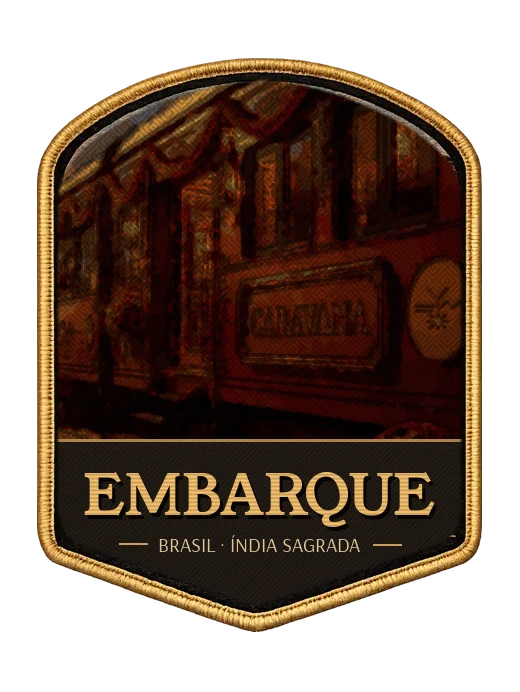
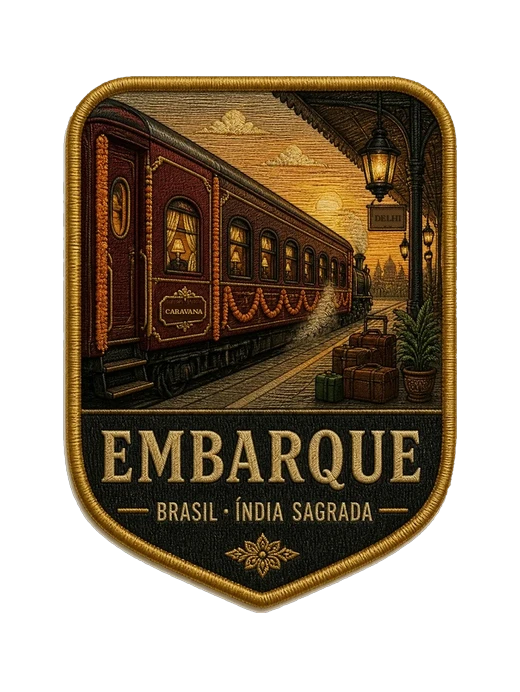
Carimbo Embarque bordado (placas CARAVANA e DELHI)
Claude-Session: https://claude.ai/code/session_019kqAkVGodtTPLnZ4JhFLF3

diff --git a/app/sw.js b/app/sw.js
@@ -1,10 +1,10 @@
-// marca: 56c608ed84
+// marca: d2f34988c0
 // Guarda o app inteiro no celular para abrir mesmo sem sinal (templo, estrada, wi-fi fraco do hotel).
 const CACHE = "caravana-v6", EXTRA = "caravana-ext", MAPA = "caravana-mapa", MARCAS = "caravana-marcas";
 // lista de arquivos gerada pelo tools/gerar-site.py
 const ARQUIVOS = /*ARQUIVOS*/["index.html", "shim.js", "config.js", "manifest.webmanifest", "dados/geo.json", "dados/saberes/dharma.json", "dados/saberes/ganesha.json", "dados/saberes/kali.json", "dados/saberes/krishna.json", "dados/saberes/lakshmi.json", "dados/saberes/sarasvati.json", "dados/travessia.json", "deuses/brahma.webp", "deuses/durga.webp", "deuses/ganesha.webp", "deuses/ganga.webp", "deuses/hanuman.webp", "deuses/kali.webp", "deuses/krishna.webp", "deuses/lakshmi.webp", "deuses/parvati.webp", "deuses/saraswati.webp", "deuses/shiva.webp", "deuses/surya.webp", "deuses/vishnu.webp", "img/abertura-agra.webp", "img/abertura-delhi.webp", "img/abertura-embarque.webp", "img/abertura-jaipur.webp", "img/abertura-rishikesh.webp", "img/abertura-varanasi.webp", "img/bilhete-og.jpg", "img/bilhete-textura.jpg", "img/cameras/campo-corpo.jpg", "img/cameras/campo.png", "img/cameras/carteira-foto.jpg", "img/cameras/carteira.webp", "img/cameras/celular-estante.png", "img/cameras/celular.png", "img/cameras/couro-corpo.jpg", "img/cameras/couro.png", "img/cameras/descartavel-corpo.jpg", "img/cameras/descartavel-estante.png", "img/cameras/descartavel.png", "img/cameras/estante.jpg", "img/cameras/etiqueta1.png", "img/cameras/etiqueta2.png", "img/cameras/etiqueta3.png", "img/cameras/instantanea-corpo.jpg", "img/cameras/instantanea-estante.png", "img/cameras/instantanea.png", "img/cameras/mala-cheia.jpg", "img/cameras/mala-oito.webp", "img/cameras/mala-papel.webp", "img/cameras/mala.jpg", "img/cameras/maleta-foto.jpg", "img/cameras/quatro-corpo.jpg", "img/cameras/quatro-estante.png", "img/cameras/quatro.png", "img/cameras/rajastao-corpo.jpg", "img/cameras/rajastao-estante.png", "img/cameras/rajastao.png", "img/cameras/super8-corpo.jpg", "img/cameras/super8-estante.png", "img/cameras/super8.png", "img/caravana-marrom.png", "img/cristal.jpg", "img/emblema.jpg", "img/fundo.webp", "img/icone-192.png", "img/icone-512.png", "img/lacre-escuro.webp", "img/lacre.webp", "img/letreiro.png", "img/lockup-claro.png", "img/logo.png", "img/mantra-ganesha.webp", "img/mantra-vasudeva.webp", "img/papiro.webp", "img/passaporte-capa.webp", "img/passaporte.webp", "img/pedra.webp", "img/simbolo-claro.png", "img/simbolo-dourado.png", "img/simbolo-marrom.png", "img/simbolo.png", "img/tenda.webp", "img/textura.jpg", "insignias/batismo.webp", "insignias/beatles-ashram.webp", "insignias/caverna.webp", "insignias/diwali.webp", "insignias/durga-kund.webp", "insignias/embarque.webp", "insignias/galta-ji.webp", "insignias/ganesha.webp", "insignias/ganga-aarti.webp", "insignias/govind-dev-ji.webp", "insignias/india.webp", "insignias/jaipur.webp", "insignias/kunjapuri.webp", "insignias/manikarnika.webp", "insignias/rishikesh.webp", "insignias/sankat-mochan.webp", "insignias/taj-mahal.webp", "insignias/travessia.webp", "insignias/varanasi.webp"]/*FIM*/;
 // a marca de cada arquivo: numa atualização o celular só baixa de novo o que mudou (economiza o chip no exterior)
-const MARCA = /*MARCAS*/{"shim.js": "05f03cd39f", "config.js": "431d3dc4e4", "manifest.webmanifest": "42ae2eacd3", "dados/geo.json": "f261282848", "dados/saberes/dharma.json": "78a51cb407", "dados/saberes/ganesha.json": "9f55ad4be4", "dados/saberes/kali.json": "b86d7ac459", "dados/saberes/krishna.json": "aabd863896", "dados/saberes/lakshmi.json": "bc4299d791", "dados/saberes/sarasvati.json": "20ae87e44b", "dados/travessia.json": "555a97e702", "deuses/brahma.webp": "19992fcb0b", "deuses/durga.webp": "8d31fb940a", "deuses/ganesha.webp": "17bade2b8f", "deuses/ganga.webp": "149e4dd452", "deuses/hanuman.webp": "060814231e", "deuses/kali.webp": "58775391b0", "deuses/krishna.webp": "6ae658d645", "deuses/lakshmi.webp": "8ae7cb1e38", "deuses/parvati.webp": "7deb4969b4", "deuses/saraswati.webp": "231d5dddb2", "deuses/shiva.webp": "fce88360c5", "deuses/surya.webp": "df567b134b", "deuses/vishnu.webp": "67851a3c0b", "img/abertura-agra.webp": "96c5035722", "img/abertura-delhi.webp": "5356c14bf4", "img/abertura-embarque.webp": "9e320b1e29", "img/abertura-jaipur.webp": "965ec260db", "img/abertura-rishikesh.webp": "ce4c1a96f6", "img/abertura-varanasi.webp": "018d81939a", "img/bilhete-og.jpg": "01526b34f3", "img/bilhete-textura.jpg": "27c6916490", "img/cameras/campo-corpo.jpg": "63f1e7fa9b", "img/cameras/campo.png": "c18a7e8454", "img/cameras/carteira-foto.jpg": "a7fedf6036", "img/cameras/carteira.webp": "3b77bfd17e", "img/cameras/celular-estante.png": "da6451baf7", "img/cameras/celular.png": "b10bb112cb", "img/cameras/couro-corpo.jpg": "bf49b75fa3", "img/cameras/couro.png": "e4ff450f79", "img/cameras/descartavel-corpo.jpg": "ac07cb28f5", "img/cameras/descartavel-estante.png": "f1d69c668a", "img/cameras/descartavel.png": "876e87ab30", "img/cameras/estante.jpg": "0cb7b649a8", "img/cameras/etiqueta1.png": "4aeea10cc0", "img/cameras/etiqueta2.png": "67dc1501a5", "img/cameras/etiqueta3.png": "0ad50425a9", "img/cameras/instantanea-corpo.jpg": "856089fe2a", "img/cameras/instantanea-estante.png": "f9885341c1", "img/cameras/instantanea.png": "beb836f2bc", "img/cameras/mala-cheia.jpg": "3c2218ae98", "img/cameras/mala-oito.webp": "aef48e85db", "img/cameras/mala-papel.webp": "29fc8486ca", "img/cameras/mala.jpg": "f79a46d2d3", "img/cameras/maleta-foto.jpg": "a8fd724b58", "img/cameras/quatro-corpo.jpg": "6c6747f615", "img/cameras/quatro-estante.png": "b2082a40e1", "img/cameras/quatro.png": "bbe4f0f2a4", "img/cameras/rajastao-corpo.jpg": "2b36624ac6", "img/cameras/rajastao-estante.png": "76fe9802df", "img/cameras/rajastao.png": "b480e2d873", "img/cameras/super8-corpo.jpg": "4b5235d146", "img/cameras/super8-estante.png": "2a07cbf97a", "img/cameras/super8.png": "e12eb1f958", "img/caravana-marrom.png": "784b71c5db", "img/cristal.jpg": "4adff18968", "img/emblema.jpg": "a211a86451", "img/fundo.webp": "aa9c10bcae", "img/icone-192.png": "11a5c845bc", "img/icone-512.png": "7745e9675a", "img/lacre-escuro.webp": "d459f488fc", "img/lacre.webp": "635ae8e394", "img/letreiro.png": "6defdd3553", "img/lockup-claro.png": "8d663db03a", "img/logo.png": "7a72b39c60", "img/mantra-ganesha.webp": "a7daafb44d", "img/mantra-vasudeva.webp": "6827763e6f", "img/papiro.webp": "7e11ae5ce6", "img/passaporte-capa.webp": "3c3ed6db3a", "img/passaporte.webp": "c5a0d63fd3", "img/pedra.webp": "3440e853b6", "img/simbolo-claro.png": "8fa2d5ebf1", "img/simbolo-dourado.png": "fefceb26fb", "img/simbolo-marrom.png": "54f22364f2", "img/simbolo.png": "cf73e5581e", "img/tenda.webp": "306f2ba051", "img/textura.jpg": "2dd579ec54", "insignias/batismo.webp": "5372da595f", "insignias/beatles-ashram.webp": "753270b7d0", "insignias/caverna.webp": "804c730450", "insignias/diwali.webp": "56d57efb26", "insignias/durga-kund.webp": "54db1886b6", "insignias/embarque.webp": "fb3e8898b8", "insignias/galta-ji.webp": "8aed7ab707", "insignias/ganesha.webp": "b866c0bba1", "insignias/ganga-aarti.webp": "0f3405a8b0", "insignias/govind-dev-ji.webp": "2e6c1891c5", "insignias/india.webp": "0507deebf0", "insignias/jaipur.webp": "b5a70853d8", "insignias/kunjapuri.webp": "a887052d5c", "insignias/manikarnika.webp": "e7a872925e", "insignias/rishikesh.webp": "98d094103a", "insignias/sankat-mochan.webp": "38c74ad7d0", "insignias/taj-mahal.webp": "2d4bb63d47", "insignias/travessia.webp": "44e46c3480", "insignias/varanasi.webp": "fcd5b20cfc"}/*FIMM*/;
+const MARCA = /*MARCAS*/{"shim.js": "05f03cd39f", "config.js": "431d3dc4e4", "manifest.webmanifest": "42ae2eacd3", "dados/geo.json": "f261282848", "dados/saberes/dharma.json": "78a51cb407", "dados/saberes/ganesha.json": "9f55ad4be4", "dados/saberes/kali.json": "b86d7ac459", "dados/saberes/krishna.json": "aabd863896", "dados/saberes/lakshmi.json": "bc4299d791", "dados/saberes/sarasvati.json": "20ae87e44b", "dados/travessia.json": "555a97e702", "deuses/brahma.webp": "19992fcb0b", "deuses/durga.webp": "8d31fb940a", "deuses/ganesha.webp": "17bade2b8f", "deuses/ganga.webp": "149e4dd452", "deuses/hanuman.webp": "060814231e", "deuses/kali.webp": "58775391b0", "deuses/krishna.webp": "6ae658d645", "deuses/lakshmi.webp": "8ae7cb1e38", "deuses/parvati.webp": "7deb4969b4", "deuses/saraswati.webp": "231d5dddb2", "deuses/shiva.webp": "fce88360c5", "deuses/surya.webp": "df567b134b", "deuses/vishnu.webp": "67851a3c0b", "img/abertura-agra.webp": "96c5035722", "img/abertura-delhi.webp": "5356c14bf4", "img/abertura-embarque.webp": "9e320b1e29", "img/abertura-jaipur.webp": "965ec260db", "img/abertura-rishikesh.webp": "ce4c1a96f6", "img/abertura-varanasi.webp": "018d81939a", "img/bilhete-og.jpg": "01526b34f3", "img/bilhete-textura.jpg": "27c6916490", "img/cameras/campo-corpo.jpg": "63f1e7fa9b", "img/cameras/campo.png": "c18a7e8454", "img/cameras/carteira-foto.jpg": "a7fedf6036", "img/cameras/carteira.webp": "3b77bfd17e", "img/cameras/celular-estante.png": "da6451baf7", "img/cameras/celular.png": "b10bb112cb", "img/cameras/couro-corpo.jpg": "bf49b75fa3", "img/cameras/couro.png": "e4ff450f79", "img/cameras/descartavel-corpo.jpg": "ac07cb28f5", "img/cameras/descartavel-estante.png": "f1d69c668a", "img/cameras/descartavel.png": "876e87ab30", "img/cameras/estante.jpg": "0cb7b649a8", "img/cameras/etiqueta1.png": "4aeea10cc0", "img/cameras/etiqueta2.png": "67dc1501a5", "img/cameras/etiqueta3.png": "0ad50425a9", "img/cameras/instantanea-corpo.jpg": "856089fe2a", "img/cameras/instantanea-estante.png": "f9885341c1", "img/cameras/instantanea.png": "beb836f2bc", "img/cameras/mala-cheia.jpg": "3c2218ae98", "img/cameras/mala-oito.webp": "aef48e85db", "img/cameras/mala-papel.webp": "29fc8486ca", "img/cameras/mala.jpg": "f79a46d2d3", "img/cameras/maleta-foto.jpg": "a8fd724b58", "img/cameras/quatro-corpo.jpg": "6c6747f615", "img/cameras/quatro-estante.png": "b2082a40e1", "img/cameras/quatro.png": "bbe4f0f2a4", "img/cameras/rajastao-corpo.jpg": "2b36624ac6", "img/cameras/rajastao-estante.png": "76fe9802df", "img/cameras/rajastao.png": "b480e2d873", "img/cameras/super8-corpo.jpg": "4b5235d146", "img/cameras/super8-estante.png": "2a07cbf97a", "img/cameras/super8.png": "e12eb1f958", "img/caravana-marrom.png": "784b71c5db", "img/cristal.jpg": "4adff18968", "img/emblema.jpg": "a211a86451", "img/fundo.webp": "aa9c10bcae", "img/icone-192.png": "11a5c845bc", "img/icone-512.png": "7745e9675a", "img/lacre-escuro.webp": "d459f488fc", "img/lacre.webp": "635ae8e394", "img/letreiro.png": "6defdd3553", "img/lockup-claro.png": "8d663db03a", "img/logo.png": "7a72b39c60", "img/mantra-ganesha.webp": "a7daafb44d", "img/mantra-vasudeva.webp": "6827763e6f", "img/papiro.webp": "7e11ae5ce6", "img/passaporte-capa.webp": "3c3ed6db3a", "img/passaporte.webp": "c5a0d63fd3", "img/pedra.webp": "3440e853b6", "img/simbolo-claro.png": "8fa2d5ebf1", "img/simbolo-dourado.png": "fefceb26fb", "img/simbolo-marrom.png": "54f22364f2", "img/simbolo.png": "cf73e5581e", "img/tenda.webp": "306f2ba051", "img/textura.jpg": "2dd579ec54", "insignias/batismo.webp": "5372da595f", "insignias/beatles-ashram.webp": "753270b7d0", "insignias/caverna.webp": "804c730450", "insignias/diwali.webp": "56d57efb26", "insignias/durga-kund.webp": "54db1886b6", "insignias/embarque.webp": "8f3b0b6dfb", "insignias/galta-ji.webp": "8aed7ab707", "insignias/ganesha.webp": "b866c0bba1", "insignias/ganga-aarti.webp": "0f3405a8b0", "insignias/govind-dev-ji.webp": "2e6c1891c5", "insignias/india.webp": "0507deebf0", "insignias/jaipur.webp": "b5a70853d8", "insignias/kunjapuri.webp": "a887052d5c", "insignias/manikarnika.webp": "e7a872925e", "insignias/rishikesh.webp": "98d094103a", "insignias/sankat-mochan.webp": "38c74ad7d0", "insignias/taj-mahal.webp": "2d4bb63d47", "insignias/travessia.webp": "44e46c3480", "insignias/varanasi.webp": "fcd5b20cfc"}/*FIMM*/;
 const LISTA = new Set(ARQUIVOS.filter(a => a !== "index.html"));
 async function guardaUm(c, m, a, sempre) {
   const mk = MARCA[a];

diff --git a/app/index.html b/app/index.html
@@ -7,7 +7,7 @@
 <link rel="icon" href="img/icone-192.png">
 <link rel="apple-touch-icon" href="img/icone-192.png">
 <link rel="manifest" href="manifest.webmanifest">
-<script>window.__VERSAO = "11/10 · 17:53";</script>
+<script>window.__VERSAO = "11/10 · 17:56";</script>
 <script src="config.js"></script>
 <script src="shim.js"></script>
 <style>*,*::before,*::after{box-sizing:border-box}html,body{margin:0;height:100%}
